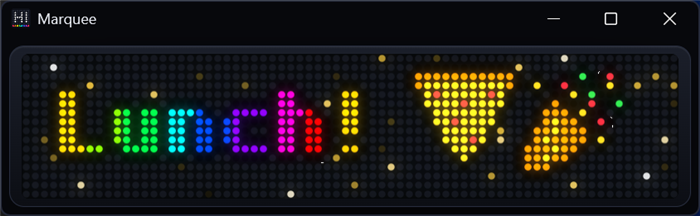
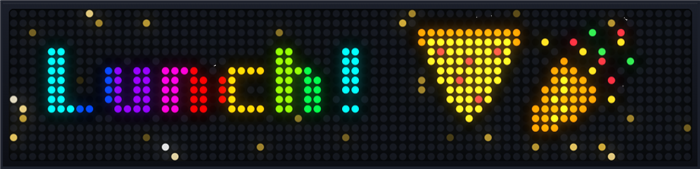
Marquee 1.1.3: frameless bezel view, one-click install on Mac and Linux
- Screen-only view in Marquee.exe drops the window frame: drag the bezel to move it,
  resize from any edge with the sign's proportions kept, controls on hover
- The Mac/Linux widget installs or updates the bar app with one click; the release zip
  now carries it
- Marquee.command opens the widget on a Mac with a double-click
- Windows-only buttons no longer show in the browser version

diff --git a/widget/index.html b/widget/index.html
@@ -33,11 +33,15 @@
   body.v-compact .emojis { margin-bottom: 0; }
   /* Screen view: only the LED screen, with the view buttons on hover. */
   body.v-screen { overflow: hidden; }
-  body.v-screen .wrap { padding: 6px; height: 100vh; display: flex; align-items: center; justify-content: center; }
-  body.v-screen .layout, body.v-screen .stage { width: 100%; }
+  body.v-screen .wrap { padding: 0; height: 100vh; }
+  body.v-screen .layout, body.v-screen .stage { width: 100%; height: 100%; }
   body.v-screen .compose, body.v-screen .emojis, body.v-screen #presets, body.v-screen .controls, body.v-screen .bezel .tag { display: none; }
-  body.v-screen .bezel { padding: 6px; border-radius: 12px; }
-  body.v-screen .bezel canvas { width: min(100%, calc((100vh - 26px) * 4.5)); border-radius: 6px; }
+  /* In Marquee.exe the bezel is the whole window: no frame, drag it anywhere to move it. */
+  body.v-screen .bezel { height: 100%; padding: 6px; border-radius: 0; border: 0; display: flex; align-items: center; justify-content: center; }
+  body.hosted.v-screen .bezel { cursor: grab; }
+  body.v-screen .bezel canvas { width: min(100%, calc((100vh - 12px) * 4.5)); border-radius: 5px; }
+  .screen-only { display: none !important; }
+  body.hosted.v-screen .screen-only { display: grid !important; }
   body.v-screen header { position: fixed; top: 8px; right: 10px; z-index: 5; margin: 0; opacity: 0; transition: opacity .15s; }
   body.v-screen:hover header { opacity: 1; }
   body.v-screen .brand, body.v-screen .status { display: none; }
@@ -49,6 +53,7 @@
   .views button.on { color: var(--text); background: linear-gradient(135deg, #ff2a8a44, #00e5ff44); }
   .views svg { width: 15px; height: 15px; fill: none; stroke: currentColor; stroke-width: 1.7; stroke-linecap: round; stroke-linejoin: round; }
   .views .sep { width: 1px; margin: 4px 3px; background: var(--line); }
+  .views [hidden] { display: none !important; }
   .pin { position: fixed; left: 50%; bottom: 16px; transform: translateX(-50%); z-index: 20; display: flex; align-items: center; gap: 14px; width: min(560px, calc(100vw - 24px)); padding: 12px 14px; border-radius: 14px; background: #161a26; border: 1px solid #2f3750; box-shadow: 0 18px 50px -12px #000; }
   .pin[hidden], .setup[hidden] { display: none; }
   .setup { display: flex; align-items: center; gap: 16px; margin-bottom: 14px; padding: 14px 16px; border-radius: 14px; background: linear-gradient(135deg, #ff2a8a1a, #00e5ff1a); border: 1px solid #00e5ff55; }
@@ -138,6 +143,8 @@
       <button data-view="screen" title="Screen only"><svg viewBox="0 0 16 16"><rect x="1.5" y="4.5" width="13" height="7" rx="1.5"/></svg></button>
       <span class="sep host-only"></span>
       <button id="ontop" class="host-only" title="Keep on top of other windows"><svg viewBox="0 0 16 16"><path d="M10 1.8 14.2 6l-2 .6-2.6 2.6.3 3.2-1.3 1.3L5.8 10.9 2 14.7M5.1 3.5l7.4 7.4M9.5 1.5 6 5l-2.7.2L2 6.5"/></svg></button>
+      <button id="minimize" class="host-only screen-only" title="Minimize"><svg viewBox="0 0 16 16"><path d="M3.5 8.5h9"/></svg></button>
+      <button id="close" class="host-only screen-only" title="Close"><svg viewBox="0 0 16 16"><path d="m4 4 8 8M12 4l-8 8"/></svg></button>
     </div>
   </div>
 </header>
@@ -595,7 +602,7 @@ function fitView() {
 
 /** Natural size of a view in CSS pixels, so the window can open at a size that suits it. */
 function suggestedSize(v) {
-  if (v === "screen") return { w: 560, h: Math.round((560 - 24) / 4.5 + 24) };
+  if (v === "screen") return { w: 560, h: Math.round((560 - 12) / 4.5 + 12) };
   if (v === "compact") return { w: 760, h: 0 };
   return { w: 1240, h: 800 };
 }
@@ -609,13 +616,37 @@ function setView(v, fromHost = false) {
   requestAnimationFrame(fitView);
 }
 for (const b of $("views").querySelectorAll("[data-view]")) b.onclick = () => setView(b.dataset.view);
-$("led").addEventListener("dblclick", () => setView(view === "screen" ? "full" : "screen"));
+const bezel = document.querySelector(".bezel");
+bezel.addEventListener("dblclick", (e) => {
+  if (!e.target.closest("header")) setView(view === "screen" ? "full" : "screen");
+});
+// With no window frame, dragging the bezel moves the window. The move starts only once the mouse
+// travels a few pixels, so clicks and double-clicks still reach the page.
+let press = null;
+bezel.addEventListener("mousedown", (e) => {
+  press = host && view === "screen" && e.button === 0 && !e.target.closest("header") ? { x: e.screenX, y: e.screenY } : null;
+});
+addEventListener("mousemove", (e) => {
+  if (!press) return;
+  if (!(e.buttons & 1)) {
+    press = null;
+    return;
+  }
+  if (Math.abs(e.screenX - press.x) + Math.abs(e.screenY - press.y) > 3) {
+    press = null;
+    host.postMessage({ type: "drag" });
+  }
+});
+addEventListener("mouseup", () => (press = null));
+$("minimize").onclick = () => host?.postMessage({ type: "minimize" });
+$("close").onclick = () => host?.postMessage({ type: "close" });
 addEventListener("resize", () => requestAnimationFrame(fitView));
 // Refit once fonts (and emoji) finish loading, since they change the layout.
 document.fonts?.ready.then(() => requestAnimationFrame(fitView));
 
 // ---- Marquee.exe extras: always on top, and a one-time offer to pin to the taskbar -------
 for (const el of document.querySelectorAll(".host-only")) el.hidden = !host;
+if (host) document.body.classList.add("hosted");
 let onTop = false;
 $("ontop").onclick = () => {
   onTop = !onTop;
@@ -649,6 +680,8 @@ host?.addEventListener("message", (e) => {
       host.postMessage({ type: "fitHeight", h: Math.ceil(wrap.getBoundingClientRect().height) });
       fitView();
     });
+  } else if (m.type === "dblclick") {
+    setView("full");
   } else if (m.type === "pinned") {
     pinMsg("Pinned", "Marquee is on your taskbar now.");
     $("pinYes").hidden = true;

diff --git a/widget/app/Program.cs b/widget/app/Program.cs
@@ -286,8 +286,8 @@ sealed class MainForm : Form
         BackColor = Back;
         using (var ico = Assembly.GetExecutingAssembly().GetManifestResourceStream("marquee.ico")) if (ico != null) Icon = new Icon(ico);
         StartPosition = FormStartPosition.Manual;
-        MinimumSize = new Size(LogicalToDeviceUnits(260), LogicalToDeviceUnits(130));
         TopMost = prefs.TopMost;
+        ApplyChrome(prefs.View);
         PlaceFor(prefs.View, null);
         if (prefs.Maximized && prefs.View == "full") WindowState = FormWindowState.Maximized;
         Controls.Add(web);
@@ -316,6 +316,78 @@ sealed class MainForm : Form
     {
         base.OnHandleCreated(e);
         Frame.Theme(Handle);
+    }
+
+    /// <summary>True while the window has no frame: the screen-only view, where the bezel is the window.</summary>
+    bool Bare => FormBorderStyle == FormBorderStyle.None;
+
+    /// <summary>The screen-only view drops the window frame; the other views keep it.</summary>
+    void ApplyChrome(string view)
+    {
+        var bare = view == "screen";
+        // A thin margin around the page is where the window's edges can be grabbed to resize it.
+        Padding = bare ? new Padding(LogicalToDeviceUnits(3)) : Padding.Empty;
+        BackColor = bare ? Color.FromArgb(27, 31, 42) : Back;
+        MinimumSize = bare ? new Size(LogicalToDeviceUnits(200), LogicalToDeviceUnits(52)) : new Size(LogicalToDeviceUnits(260), LogicalToDeviceUnits(130));
+        if (Bare != bare) FormBorderStyle = bare ? FormBorderStyle.None : FormBorderStyle.Sizable;
+        if (IsHandleCreated) Frame.Theme(Handle);
+    }
+
+    const int WM_NCHITTEST = 0x84, WM_NCLBUTTONDOWN = 0xA1, WM_NCLBUTTONDBLCLK = 0xA3, WM_SIZING = 0x214;
+
+    [DllImport("user32.dll")] static extern bool ReleaseCapture();
+    [DllImport("user32.dll")] static extern IntPtr SendMessage(IntPtr h, int msg, IntPtr w, IntPtr l);
+
+    [StructLayout(LayoutKind.Sequential)]
+    struct Rect
+    {
+        public int Left, Top, Right, Bottom;
+    }
+
+    protected override void WndProc(ref Message m)
+    {
+        if (Bare && WindowState == FormWindowState.Normal)
+        {
+            switch (m.Msg)
+            {
+                case WM_NCHITTEST:
+                {
+                    // Resize from the window's edges, which the page leaves uncovered.
+                    var p = PointToClient(new Point(unchecked((short)(long)m.LParam), unchecked((short)((long)m.LParam >> 16))));
+                    var g = LogicalToDeviceUnits(6);
+                    bool l = p.X < g, r = p.X >= ClientSize.Width - g, t = p.Y < g, b = p.Y >= ClientSize.Height - g;
+                    var hit = t && l ? 13 : t && r ? 14 : b && l ? 16 : b && r ? 17 : l ? 10 : r ? 11 : t ? 12 : b ? 15 : 2;
+                    m.Result = hit;
+                    return;
+                }
+                case WM_NCLBUTTONDBLCLK:
+                    // A double-click on the bezel goes back to all controls, instead of maximizing.
+                    Post(new JsonObject { ["type"] = "dblclick" });
+                    m.Result = IntPtr.Zero;
+                    return;
+                case WM_SIZING:
+                {
+                    // Keep the sign's proportions while resizing.
+                    var r = Marshal.PtrToStructure<Rect>(m.LParam);
+                    var edge = (int)m.WParam;
+                    var extra = Padding.Horizontal + LogicalToDeviceUnits(12);
+                    if (edge == 3 || edge == 6)
+                    {
+                        r.Right = r.Left + (int)Math.Round((r.Bottom - r.Top - extra) * 4.5) + extra;
+                    }
+                    else
+                    {
+                        var h = (int)Math.Round((r.Right - r.Left - extra) / 4.5) + extra;
+                        if (edge == 4 || edge == 5) r.Top = r.Bottom - h;
+                        else r.Bottom = r.Top + h;
+                    }
+                    Marshal.StructureToPtr(r, m.LParam, false);
+                    m.Result = 1;
+                    return;
+                }
+            }
+        }
+        base.WndProc(ref m);
     }
 
     static byte[]? Resource(string name)
@@ -353,9 +425,10 @@ sealed class MainForm : Form
                 return;
             }
         }
-        var css = suggested ?? (view == "screen" ? new Size(560, 143) : view == "compact" ? new Size(760, 330) : new Size(1240, 800));
+        var css = suggested ?? (view == "screen" ? new Size(560, 134) : view == "compact" ? new Size(760, 330) : new Size(1240, 800));
         // Window size from the page size, plus the frame.
         var frame = SizeFromClientSize(new Size(100, 100)) - new Size(100, 100);
+        frame += new Size(Padding.Horizontal, Padding.Vertical);
         var w = Math.Min((int)(css.Width * Dpi) + frame.Width, (int)(area.Width * 0.9));
         var h = css.Height > 0 ? Math.Min((int)(css.Height * Dpi) + frame.Height, (int)(area.Height * 0.9)) : Height;
         if (view == "full")
@@ -404,6 +477,7 @@ sealed class MainForm : Form
                 prefs.View = view;
                 if (WindowState == FormWindowState.Maximized) WindowState = FormWindowState.Normal;
                 var fresh = !prefs.Bounds.ContainsKey(view);
+                ApplyChrome(view);
                 PlaceFor(view, new Size(Css("w"), Css("h")));
                 prefs.Save();
                 // A view used for the first time can now size its height to its content.
@@ -416,6 +490,20 @@ sealed class MainForm : Form
                 var h = Math.Min((int)(Css("h") * Dpi), (int)(area.Height * 0.9));
                 ClientSize = new Size(ClientSize.Width, h);
                 if (Bottom > area.Bottom) Top = Math.Max(area.Top, area.Bottom - Height);
+                break;
+            case "drag":
+                // The bezel is the window's handle when it has no frame.
+                if (Bare)
+                {
+                    ReleaseCapture();
+                    SendMessage(Handle, WM_NCLBUTTONDOWN, 2, IntPtr.Zero);
+                }
+                break;
+            case "minimize":
+                WindowState = FormWindowState.Minimized;
+                break;
+            case "close":
+                Close();
                 break;
             case "topmost":
                 TopMost = prefs.TopMost = m["on"]?.GetValueKind() == JsonValueKind.True;

diff --git a/README.md b/README.md
@@ -43,7 +43,7 @@ Use the buttons at the top right to switch views. Each view remembers its own wi
 <table>
   <tr>
     <td align="center" width="50%"><img src="docs/app-compact.png" alt="The screen and message box view"><br><b>Screen and message</b><br>Just the preview, the message box, and emoji.</td>
-    <td align="center" width="50%"><img src="docs/app-screen.png" alt="The screen-only view"><br><b>Screen only</b><br>A small live preview to keep in a corner. Double-click it to go back.</td>
+    <td align="center" width="50%"><img src="docs/app-screen.png" alt="The screen-only view"><br><b>Screen only</b><br>Just the glowing sign, no window frame. Drag it anywhere, pull an edge to resize it, and hover for the controls. Double-click it to go back.</td>
   </tr>
 </table>
 
@@ -65,10 +65,12 @@ The pin button next to the views keeps Marquee on top of your other windows.
 
 ## Mac or Linux
 
-1. Download `app.rocketgod.marquee-<version>.tgz` from the [latest release](../../releases/latest).
-2. Plug in the BUSY Bar with its USB cable, and open <http://10.0.4.20> in your browser.
-3. Click **Apps** → **+ Add app**. Pick the file, click **Upload**, then **Install app**.
-4. Download `marquee-widget-mac-linux.zip` from the release, unzip it, and run `node widget/server.mjs --open` with [Node.js 24](https://nodejs.org). It opens the same control panel as an app window in Chrome or Edge.
+1. Install [Node.js 24](https://nodejs.org) if you don't have it.
+2. Download [marquee-widget-mac-linux.zip](https://github.com/RocketGod-git/busy-bar-marquee/releases/latest/download/marquee-widget-mac-linux.zip) and unzip it.
+3. Plug in your BUSY Bar with its USB cable.
+4. **Mac:** double-click `widget/Marquee.command`. If macOS says it can't check the file, right-click it, choose **Open**, then **Open** again (on newer macOS, go to **System Settings → Privacy & Security** and click **Open Anyway**).
+   **Linux:** run `node widget/server.mjs --open`.
+5. Click **Install on my bar**, just like on Windows. Marquee opens in a Chrome or Edge app window.
 
 ## Over Wi-Fi
 

diff --git a/.github/release-notes.md b/.github/release-notes.md
@@ -16,4 +16,4 @@ Then type a message, tap an emoji, pick a look, and click **Send**. Once it's on
 
 **Already have Marquee on your bar?** Just open the new Marquee.exe. If your bar has an older version, it offers a one-click update and keeps your current message.
 
-**Mac or Linux?** Download `app.rocketgod.marquee-VERSION.tgz` and `marquee-widget-mac-linux.zip` below, then follow the [Mac or Linux steps](https://github.com/RocketGod-git/busy-bar-marquee#mac-or-linux).
+**Mac or Linux?** Download `marquee-widget-mac-linux.zip` below. On a Mac, double-click `widget/Marquee.command` inside it (needs [Node.js](https://nodejs.org)), and it offers the same one-click install. See the [Mac or Linux steps](https://github.com/RocketGod-git/busy-bar-marquee#mac-or-linux).
